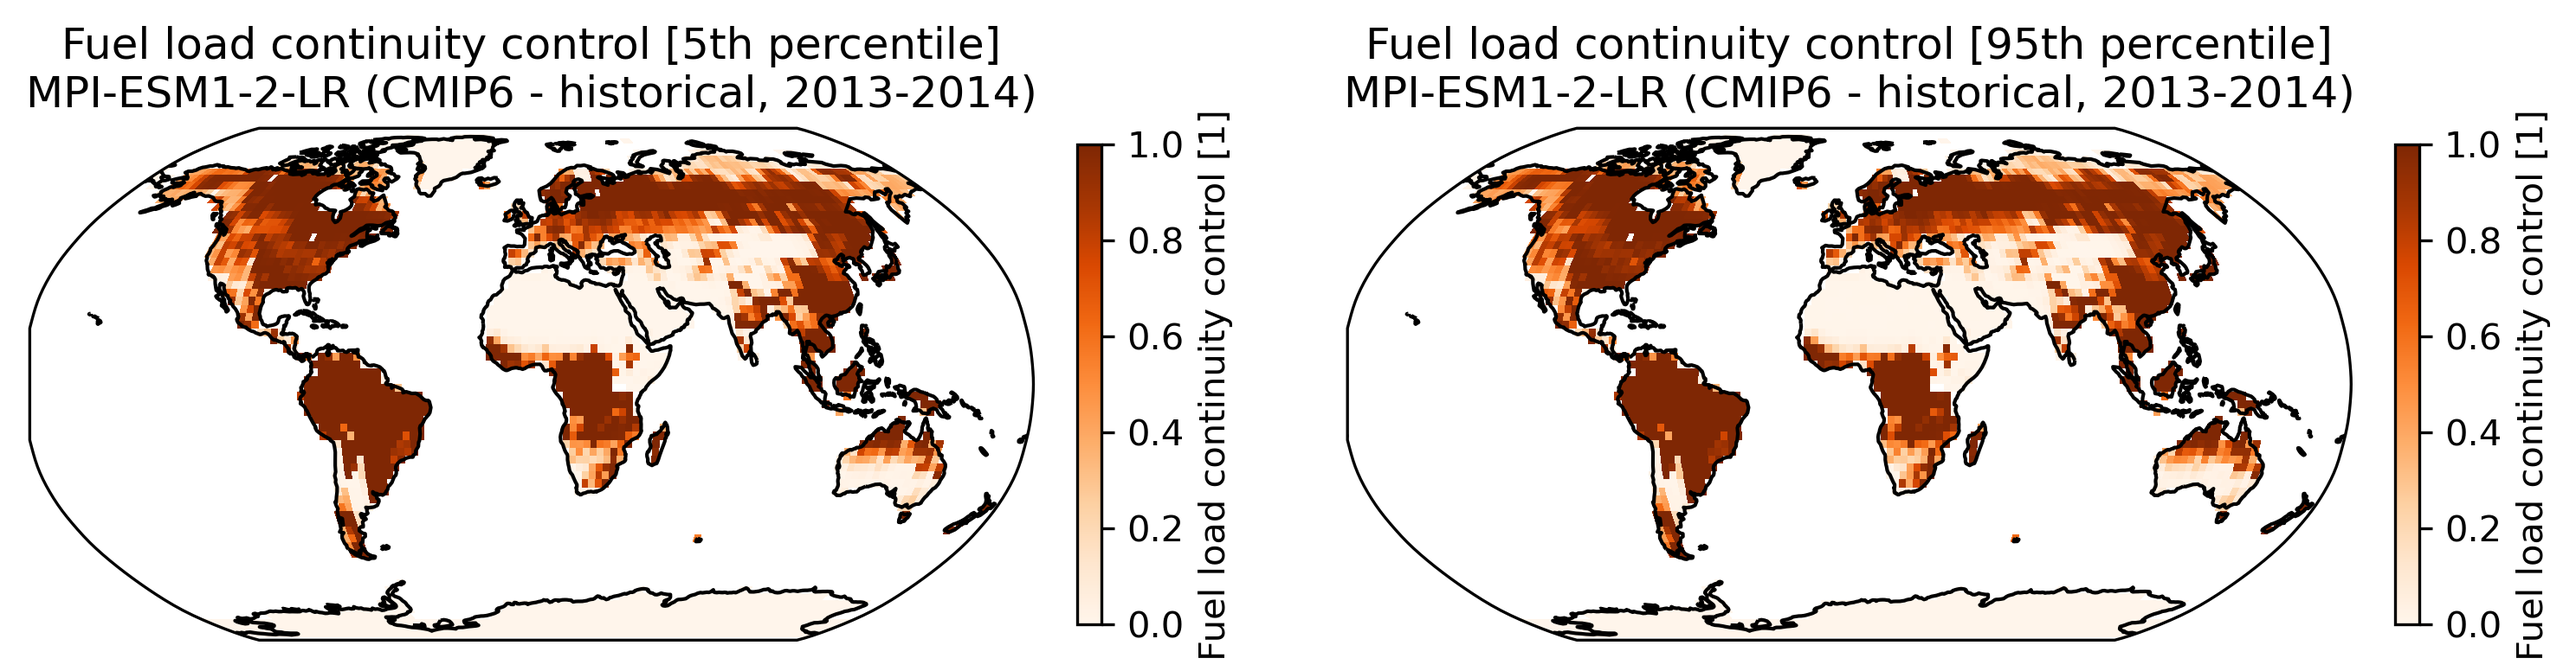
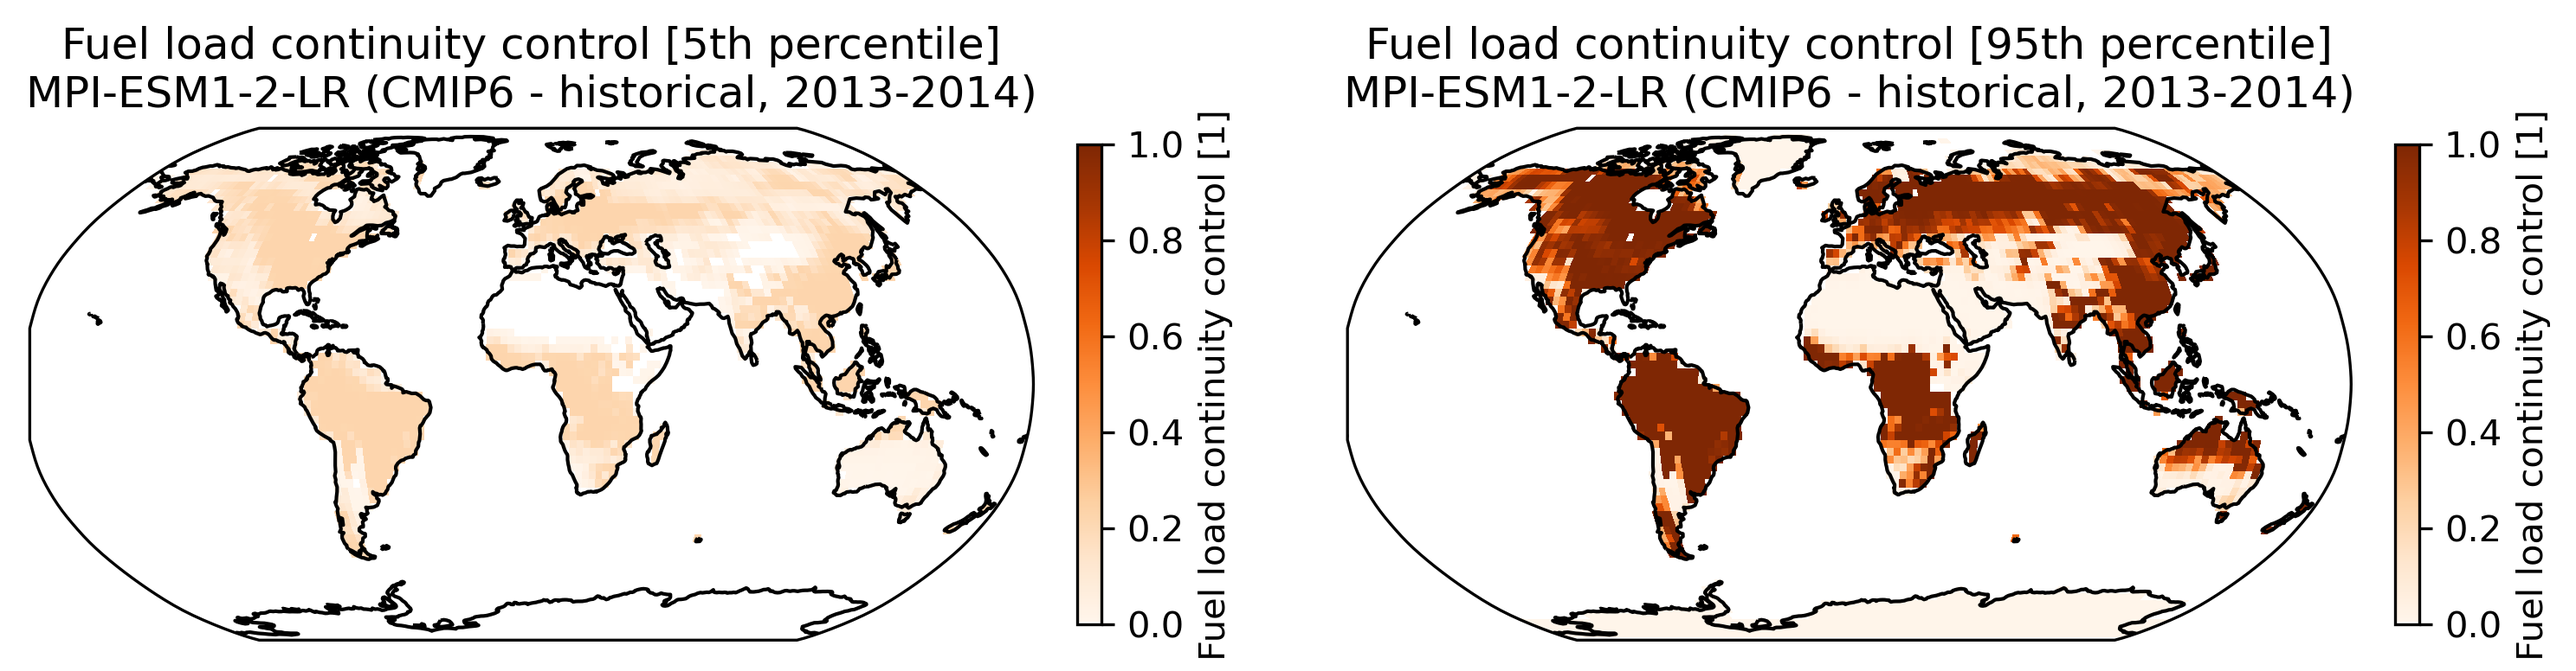
Update recipe w/ zenodo link, colormap and plots

diff --git a/esmvaltool/diag_scripts/fire/diagnostic_run_confire.py b/esmvaltool/diag_scripts/fire/diagnostic_run_confire.py
@@ -32,6 +32,7 @@ import iris.quickplot
 import matplotlib.pyplot as plt
 import numpy as np
 import pandas as pd
+from matplotlib.colors import ListedColormap
 
 from esmvaltool.diag_scripts.shared import ProvenanceLogger
 
@@ -1131,6 +1132,16 @@ def diagnostic_run_confire(
             "vmax": 1.0,
         },
     }
+    # Colormap setup
+    oranges = plt.cm.get_cmap("Oranges", 256)
+    colors = np.vstack(
+        [
+            [1, 1, 1, 1],
+            oranges(np.linspace(0, 1, 256)),
+        ]
+    )
+    cmap = ListedColormap(colors)
+    # Plots
     for filename in config["filenames_out"]:
         filepath = Path(output_dir) / f"{filename}_{model_name}_{timerange}.nc"
         fig, axes = plt.subplots(
@@ -1159,7 +1170,7 @@ def diagnostic_run_confire(
                     colorbar=False,
                     vmin=parameter_plot[filename]["vmin"],
                     vmax=parameter_plot[filename]["vmax"],
-                    cmap="Oranges",
+                    cmap=cmap,
                 )
                 axes[plotn].set_title(
                     (

diff --git a/esmvaltool/diag_scripts/fire/fire_diagnostic.py b/esmvaltool/diag_scripts/fire/fire_diagnostic.py
@@ -128,12 +128,11 @@ def download_files_from_zenodo(
             for f in files_to_download
         ):
             file_path = Path(output_dir) / file_name
-            file_response = requests.get(file_url, timeout=1)
+            file_response = requests.get(file_url, timeout=10)
             if file_response.status_code == status_request_success:
                 with Path.open(
                     file_path,
                     mode="wb",
-                    encoding=file_response.encoding,
                 ) as file:
                     file.write(file_response.content)
                 logger.info("Downloaded %s to %s.", file_name, output_dir)
@@ -162,7 +161,7 @@ def get_parameter_directory(cfg: dict) -> dict:
     """
     param_dir = None
     # If confire_param is a directory = return this directory
-    if Path.is_dir(cfg["confire_param"]):
+    if Path(cfg["confire_param"]).is_dir():
         param_dir = str(cfg["confire_param"])
         if param_dir[-1] != "/":
             param_dir += "/"
